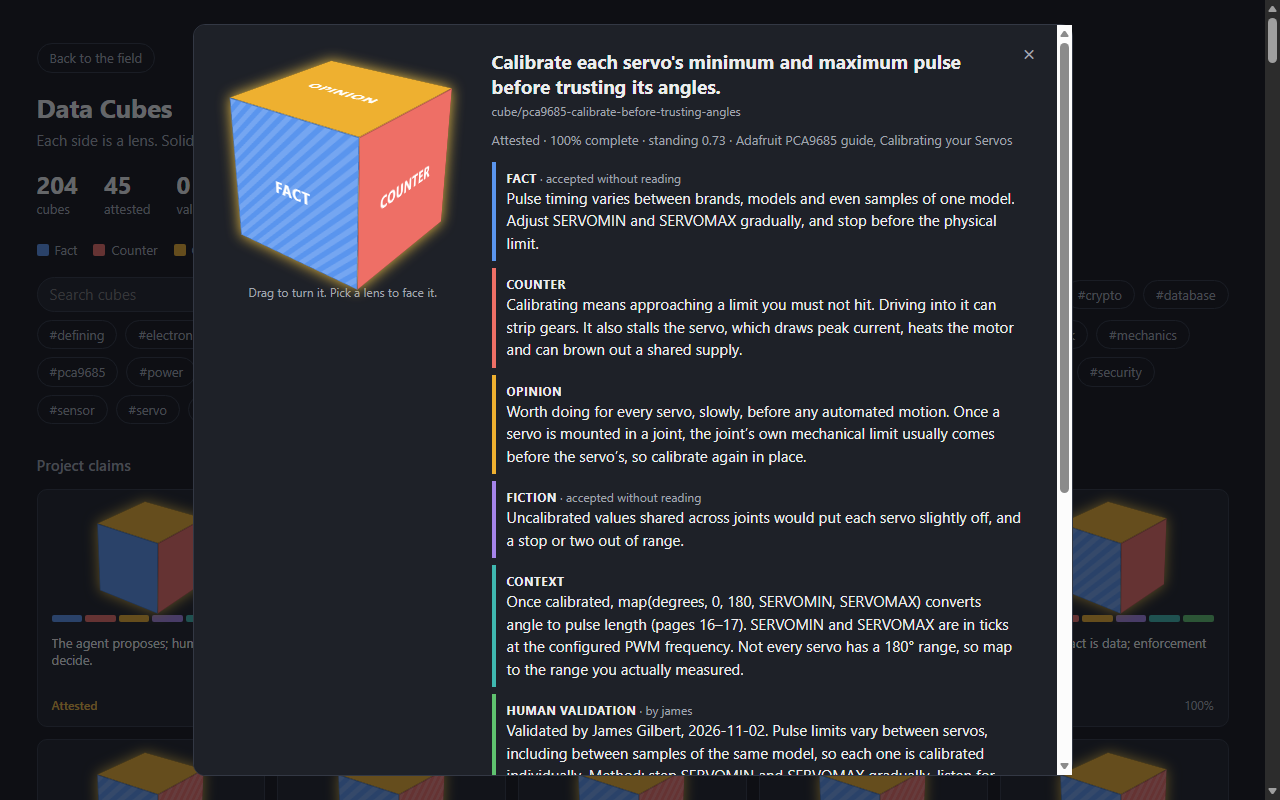
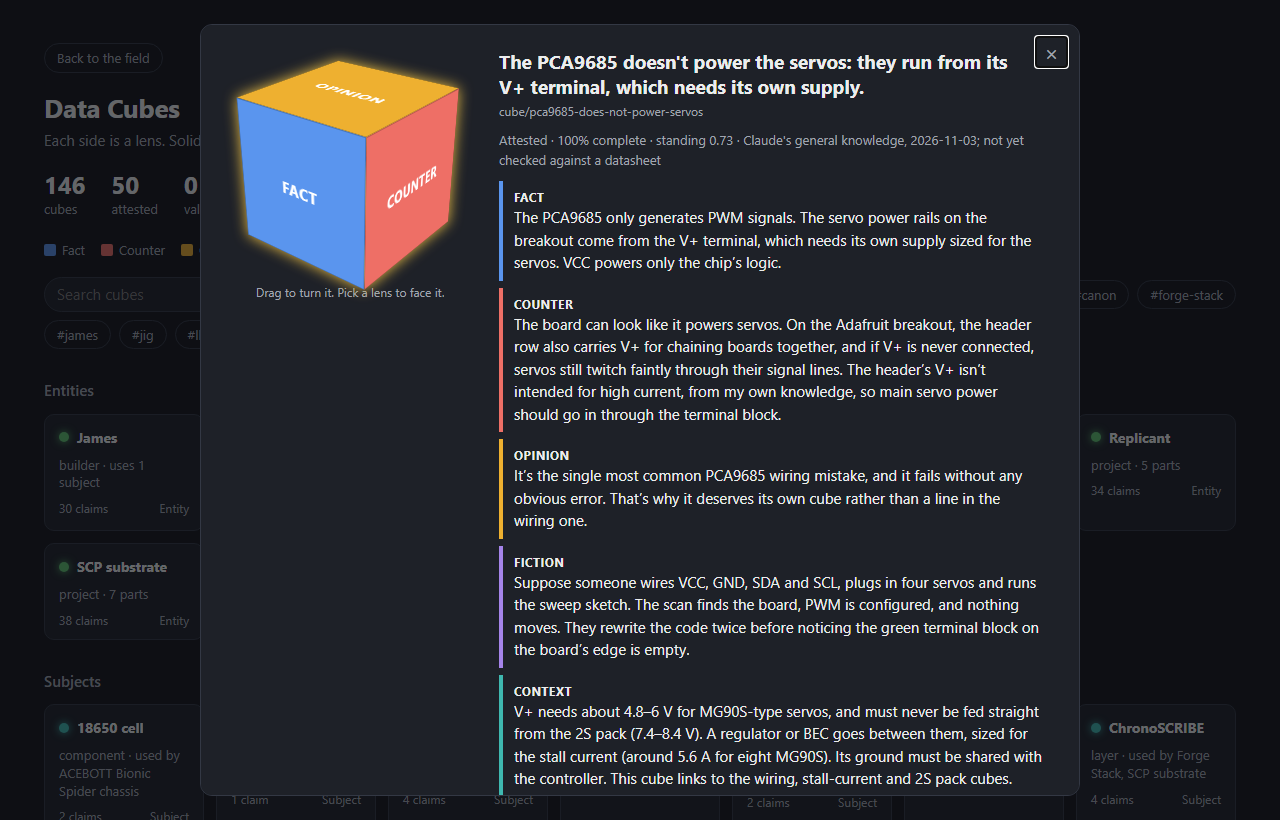
Archive the old README screenshots and take new ones
The old shots go to archive/images-2026-11-03. The new ones show the
entities, with SCPBot and its parts in the field and in the grid, and
scripts/readme_shots.py takes them again. #entity:<id> opens the page
on an entity, and a part an entity shares with its own part (MG90S on
SCPBot and its chassis) now gathers its claims with the whole.

diff --git a/keystone-gate/view_field_move.js b/keystone-gate/view_field_move.js
@@ -331,6 +331,15 @@
     cam.t = [...openCluster.c];
     cam.dist = cam.toDist;
   }
+  // #entity:<id> opens the page on that entity, its parts round it
+  const openHub = hashText.startsWith("entity:") && hubs.find(h => h.id === hashText.slice(7));
+  if (openHub) {
+    applyMode("PLACES");
+    pickEntity(openHub);
+    for (let i = 0; i < 300; i++) physics(.03, i * .03);
+    cam.t = [...openHub.home];
+    cam.dist = cam.toDist;
+  }
   const linked = byId[hashText];
   if (linked) {
     goNode(linked);

diff --git a/scripts/readme_shots.py b/scripts/readme_shots.py
@@ -1,0 +1,84 @@
+"""Take the README's screenshots of the cube page with headless Edge.
+
+  python scripts/readme_shots.py              # every shot, into images/
+  python scripts/readme_shots.py grid phone   # only these
+
+Each shot renders the page from sc.db, then sets it up by a link (#entity:,
+#mode:, a cube id) or a few lines of script. Edge sometimes hangs on a shot;
+that shot is reported and the rest carry on, so run it again for the missing
+ones; the old image stays until its new one is taken. Archive the old images
+first if you want to keep them.
+"""
+import os
+import subprocess
+import sys
+import tempfile
+from pathlib import Path
+
+REPO = Path(__file__).resolve().parent.parent
+sys.path[:0] = [str(REPO / "src"), str(REPO / "keystone-gate")]
+
+from substrate import Substrate
+from kg_view import collect, hubs, render, things, user_name
+
+EDGE = os.environ.get("EDGE", r"C:\Program Files (x86)\Microsoft\Edge\Application\msedge.exe")
+CHIP = 'const chip = (bar, text) => [...document.querySelectorAll(bar + " .chip")].find(b => b.textContent === text);'
+CUBE = "cube/pca9685-does-not-power-servos"
+WIDE, PHONE = (1280, 820), (390, 844)
+# name: (size, link, script run once the page has loaded)
+SHOTS = {
+    "overview": (WIDE, "", ""),
+    "entity-scpbot": (WIDE, "entity:entity/scpbot", ""),
+    "cube-open": (WIDE, CUBE, ""),
+    "pull-word-match": (WIDE, "", f'cubeField.pull("lens", "{CUBE}") || cubeField.pull("lens");'),
+    "repos": (WIDE, "mode:REPOS", ""),
+    "time-bar": (WIDE, "", 'const r = document.getElementById("timerange"); r.value = Math.round(r.max * .45);'
+                           ' r.dispatchEvent(new Event("input"));'),
+    "grid": (WIDE, "", 'document.getElementById("togrid").click();'),
+    "grid-entity": (WIDE, "", 'document.getElementById("togrid").click(); state.about = "entity/scpbot"; draw();'),
+    "grid-cube": (WIDE, "", f'document.getElementById("togrid").click(); open(CUBES.find(c => c.id === "{CUBE}"));'),
+    "phone": (PHONE, "", ""),
+    "phone-entity": (PHONE, "entity:entity/scpbot", ""),
+}
+
+
+def shoot(name, page, work, out):
+    (w, h), link, script = SHOTS[name]
+    html = work / f"{name}.html"
+    if script:
+        page = page.replace("</body>", f'<script>{CHIP} addEventListener("load", () => '
+                                       f'setTimeout(() => {{ {script} }}, 300));</script></body>', 1)
+    html.write_text(page, encoding="utf-8")
+    # A new shot replaces the old only once it exists, so a hang keeps the old one
+    png = work / f"{name}.png"
+    try:
+        subprocess.run([EDGE, "--headless=new", "--disable-gpu", f"--user-data-dir={work / 'profile'}",
+                        f"--window-size={w},{h}", f"--force-device-scale-factor={2 if (w, h) == PHONE else 1}",
+                        "--hide-scrollbars", "--virtual-time-budget=6000", f"--screenshot={png}",
+                        html.as_uri() + (f"#{link}" if link else "")], timeout=120, capture_output=True)
+    except subprocess.TimeoutExpired:
+        return "Edge hung, the old one is kept; run it again"
+    if not png.exists():
+        return "missing, the old one is kept"
+    png.replace(out / f"{name}.png")
+    return "ok"
+
+
+def main(names):
+    unknown = [n for n in names if n not in SHOTS]
+    if unknown:
+        raise SystemExit(f"no such shot: {', '.join(unknown)}. Shots: {', '.join(SHOTS)}")
+    s = Substrate()
+    try:
+        page = render(collect(s), user=user_name(s), hubs=hubs(s), things=things(s))
+    finally:
+        s.close()
+    out = REPO / "images"
+    # A hung Edge can still hold its profile open, so the folder may not empty
+    with tempfile.TemporaryDirectory(ignore_cleanup_errors=True) as tmp:
+        for name in names or SHOTS:
+            print(name, shoot(name, page, Path(tmp), out))
+
+
+if __name__ == "__main__":
+    main(sys.argv[1:])

diff --git a/keystone-gate/test_kg_entities.py b/keystone-gate/test_kg_entities.py
@@ -229,5 +229,25 @@ def test_a_shared_part_keeps_each_claim_with_its_own_entity():
         s.close()
 
 
+def test_a_shared_part_sits_with_the_whole_not_its_part():
+    from kg_agent import create_cube
+    from kg_entities import add_entity, link_claim, relate
+    from kg_view import collect
+    s = _store()
+    try:
+        # The chassis sorts first by id, but it is part of the bot
+        chassis = add_entity(s, "Chassis", "chassis", "james", eid="entity/a-chassis")["id"]
+        bot = add_entity(s, "Bot", "robot", "james", eid="entity/b-bot")["id"]
+        s.write({"id": "subject/servo", "foundation": "foundation:subject", "state": {"name": "Servo"}})
+        relate(s, chassis, "uses", "subject/servo")
+        relate(s, bot, "uses", "subject/servo")
+        relate(s, chassis, "part-of", bot)
+        cid = create_cube(s, "A servo has metal gears")["cube_id"]
+        link_claim(s, cid, subjects=["subject/servo"])
+        assert next(c for c in collect(s) if c["id"] == cid)["hub"] == {"entity": bot, "part": "subject/servo"}
+    finally:
+        s.close()
+
+
 if __name__ == "__main__":
     run_tests(globals())

diff --git a/keystone-gate/kg_view.py b/keystone-gate/kg_view.py
@@ -194,6 +194,10 @@ def collect(s):
     cubes = []
     you = _you(s)
     places = [(h["id"], [p["id"] for p in h["parts"]]) for h in hubs(s)]
+    # A whole comes before its parts, so a claim about a part they share
+    # sits with SCPBot, not with the chassis that is part of it
+    inner = {h for h, _ in places for l in s.links_from(h) if l["type"] == "part-of"}
+    places.sort(key=lambda p: p[0] in inner)
     link_drafts, link_reasons, link_words = _link_notes(s)
     for row in list_cubes(s):
         cube = show_cube(s, row["id"])

diff --git a/README.md b/README.md
@@ -4,7 +4,7 @@ A personal knowledge store in one SQLite file, with tools for querying it, track
 
 It is a single-user project and it is early. Read [Limits](#limits) and [Known issues](#known-issues) before relying on it.
 
-![The cube page: clusters of cubes around the green centre, which is you](images/overview.png)
+![The cube page: you at the green centre, with SCPBot, the ACEBOTT chassis and each project as smaller green dots, their parts circling them](images/overview.png)
 
 ## Parts
 
@@ -71,6 +71,10 @@ Press **Unlock to edit** in the grid view to change anything. The password prote
 
 ### What the page looks like
 
+Each smaller green dot is an entity: SCPBot, the ACEBOTT chassis, or one of the projects. Its parts circle it, each with the claims about that part. Press **Entities** under **Cluster by** and pick one, or open the page at `#entity:entity/scpbot`, for an overview: its parts, how many claims each has, and the wiring traced from its wiring claims.
+
+![SCPBot with its parts circling it, and its overview: parts, claim counts and the common ground traced from its wiring](images/entity-scpbot.png)
+
 Click a cube to open it. Its five lenses and your validation float around it, and the panel shows each one in full.
 
 ![An attested cube opened, with its five lenses and your validation around it](images/cube-open.png)
@@ -79,21 +83,23 @@ Click a thread between two cubes to pull it. The two cubes come together, the re
 
 ![Pulling a thread that two cubes share through one word](images/pull-word-match.png)
 
-A dashed thread is a suggested link you have not accepted. The foundational cubes gather around you in three colours: orange for safety, pink for security and blue for preferences. This picture was taken before preferences were added, when all foundations were amber.
+A dashed thread is a suggested link you have not accepted. The foundational cubes gather around you in three colours: orange for safety, pink for security and blue for preferences.
 
-![Pulling a suggested link between a foundational cube and a cube in another cluster](images/pull-suggested-link.png)
-
-**Cluster by** regroups the cubes, here by the repo each one came from.
+**Cluster by** regroups the cubes and shows only what that grouping holds, here the claims that came from a repo.
 
 ![The cubes grouped by repo](images/repos.png)
 
-The bar at the bottom steps back through time. This is the store as it was on 2 November, with 88 cubes.
+The bar at the bottom steps back through time. This is the store as it was on the evening of 3 November, with 29 cubes, soon after every cube was archived to start again on entities, subjects and claims.
 
-![The time bar moved back to 2 November](images/time-bar.png)
+![The time bar moved back to 3 November](images/time-bar.png)
 
 The grid lists every cube. The bar under each one shows its six sides, and a striped side was accepted without being read. Editing happens here, after you unlock it.
 
 ![The grid view](images/grid.png)
+
+Every entity and subject has a card in the grid. Opening one shows what it is, its parts or who uses it, and only its claims.
+
+![SCPBot's card in the grid: its kind, who is building it, the chassis that is part of it, and its parts](images/grid-entity.png)
 
 ![A cube opened in the grid](images/grid-cube.png)
 
@@ -101,7 +107,7 @@ The page works on a phone through Tailscale. See [docs/STARTUP.md](docs/STARTUP.
 
 <p>
   <img src="images/phone.png" alt="The cube page on a phone" width="260">
-  <img src="images/phone-pull.png" alt="Pulling a thread on a phone" width="260">
+  <img src="images/phone-entity.png" alt="SCPBot and its overview on a phone" width="260">
 </p>
 
 These pictures come from the full local store. The public snapshot leaves out private cubes and drafts, so it shows less.

diff --git a/docs/STRUCTURE.md b/docs/STRUCTURE.md
@@ -43,9 +43,9 @@ scp-substrate/
 ├── tests/                 run.py, test_substrate_N.py, test_house_rules.py, support_substrate.py
 ├── docs/                  README (what each doc is for), VOCABULARY, SPEC, OUTLINE, STARTUP, PHONE, FAQ, REASONING, STRUCTURE
 │   └── scp/               signed SCP documents (*.scp.json) imported into the store
-├── archive/               archived capsules, links and events, one sc-archive-<date>.db per archive
+├── archive/               archived capsules, links and events, one sc-archive-<date>.db per archive, and old README screenshots in images-<date>/
 ├── outlines/              outlines that kg import built entities from, kept as the record
-├── images/                screenshots used in the README
+├── images/                screenshots used in the README, taken by scripts/readme_shots.py
 ├── build/                 cubes.html, the generated page, tracked in git
 │   └── public/            the public snapshot, its own repo (JamesTheGiblet/cubes), ignored here
 ├── keystone-gate/         see keystone-gate/README.md for its files
